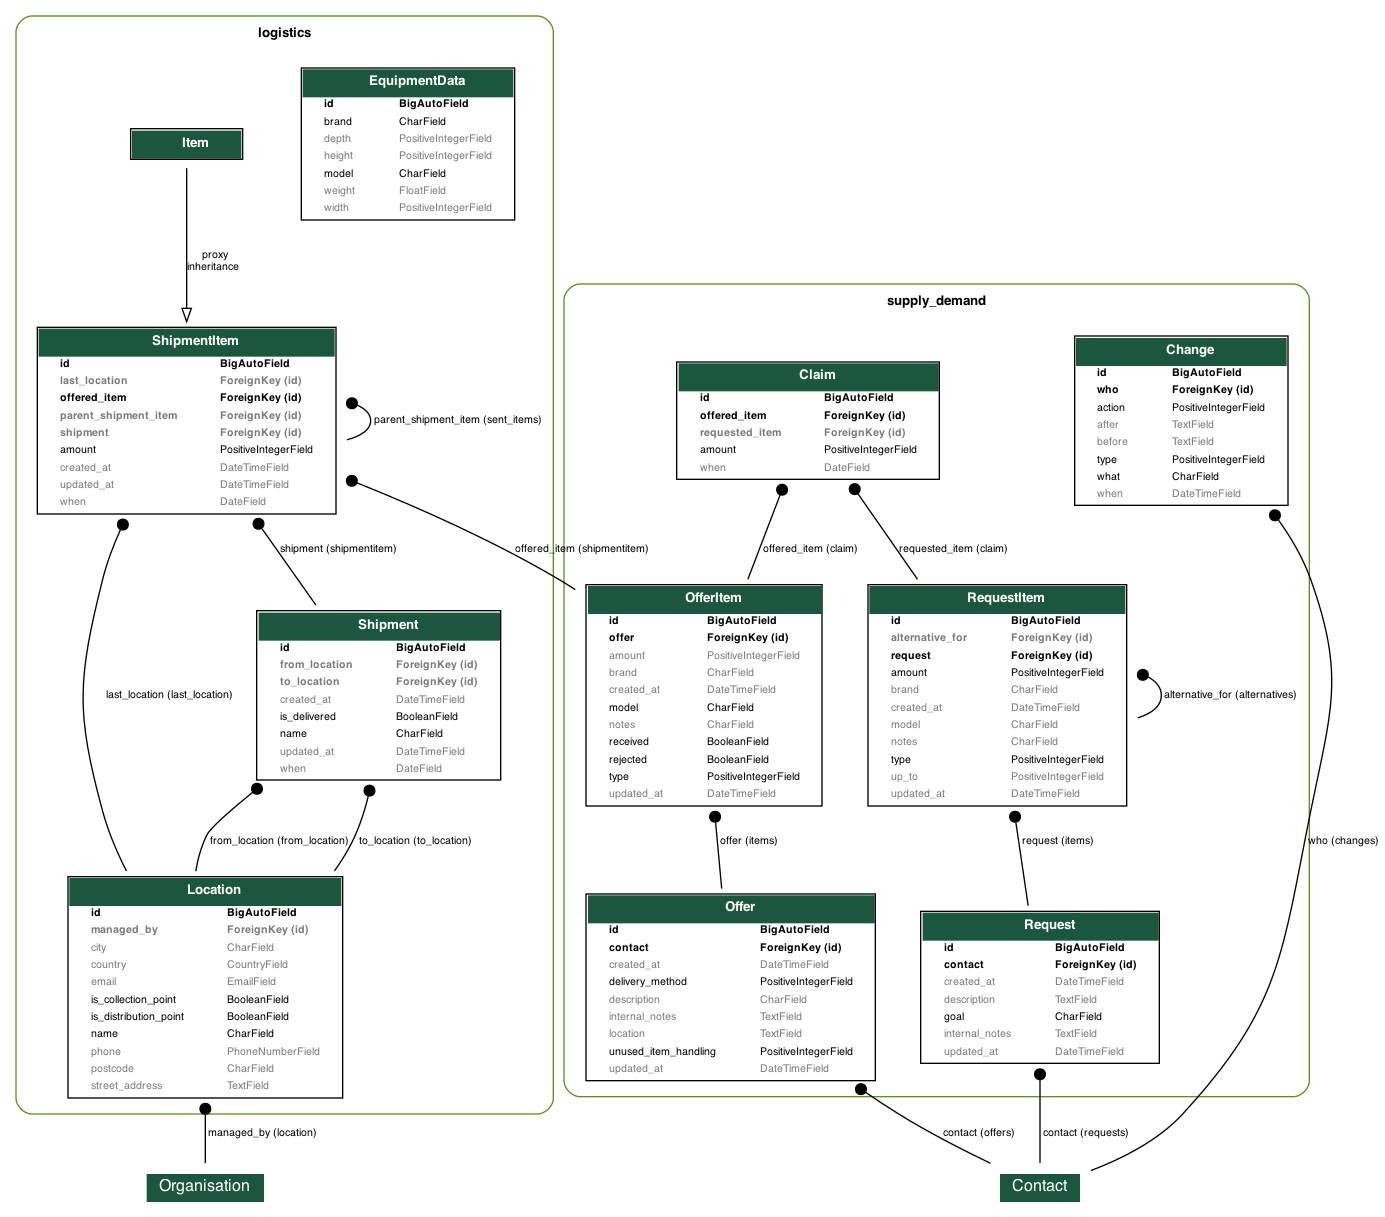
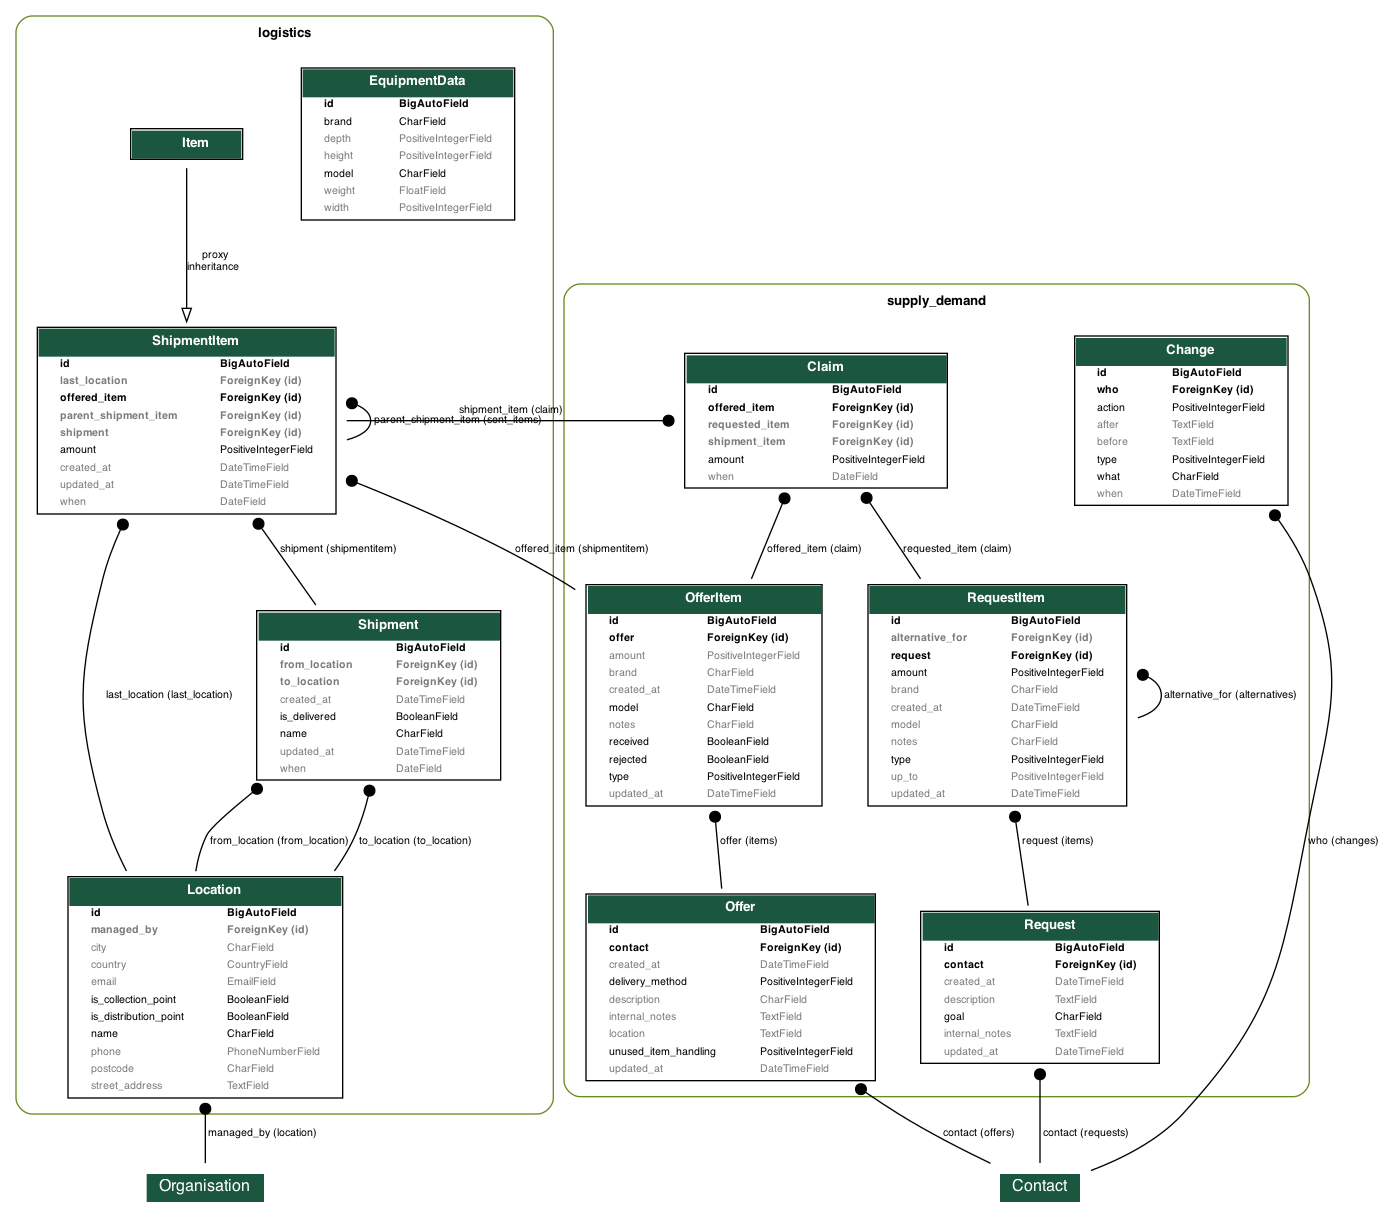
attach claim to shipment_item, improve ClaimAdmin

Changed region(s): [[0.4657, 0.281, 0.683, 0.4684], [0.652, 0.4371, 0.7141, 0.4684], [0.3415, 0.3122, 0.4036, 0.3435]]

diff --git a/templates/admin/assign_to_shipment.html b/templates/admin/assign_to_shipment.html
@@ -2,6 +2,13 @@
 {% load i18n %}
 
 {% block content %}
+  {% if not form.fields.shipment.choices %}
+    <p style="color: red;">{% translate "Create Shipment first" %}</p>
+  {% endif %}
+    <a class="" href="{% url 'admin:logistics_shipment_add' %}" target="_blank" title="{% translate "Add new Shipment" %}">
+      <img src="/static/admin/img/icon-addlink.svg" alt="Add"> {% translate "Create New Shipment" %}
+    </a>({% translate "refresh page after new shipment has been created" %})
+    <p></p>
   <form action="" method="post">
     {% csrf_token %}
     {{ form }}

diff --git a/supply_demand/admin/admin.py b/supply_demand/admin/admin.py
@@ -16,7 +16,7 @@ from import_export.admin import ExportActionModelAdmin, ImportExportActionModelA
 from logistics.forms import AssignToShipmentForm
 from logistics.models import ShipmentItem, Shipment
 from supply_demand.admin.base import CompactInline, ContactOnlyAdmin, ReadOnlyMixin
-from supply_demand.admin.filters import LocationFilter, OverclaimedListFilter
+from supply_demand.admin.filters import LocationFilter, OverclaimedListFilter, ProcessedClaimListFilter
 from supply_demand.admin.forms import MoveToOfferForm, MoveToRequestForm
 from supply_demand.admin.resources import (
     CustomConfirmImportForm,
@@ -199,6 +199,8 @@ class ClaimInlineAdmin(CompactInline):
         "offered_item",
         "amount",
         "location",
+        "requester",
+        "donor",
     )
 
     def get_queryset(self, request):
@@ -208,7 +210,40 @@ class ClaimInlineAdmin(CompactInline):
 
     @admin.display(description=_("current location"))
     def location(self, item: Claim):
-        return item.location
+        shipment_items = item.offered_item.shipmentitem_set.all()
+        if shipment_items:
+            return format_html_join(
+                mark_safe("<br>"), "{}x - {}", ((item.amount, item.last_location) for item in shipment_items)
+            )
+        return _("donor")
+
+    @admin.display(description=_("requester"))
+    def requester(self, item: Claim):
+        if item.requested_item.request.contact.organisation_id:
+            organisation = item.requested_item.request.contact.organisation
+        else:
+            organisation = _("no organisation")
+        requester = item.requested_item.request.contact
+        requester_name = requester.display_name()
+        return format_html(
+            '<a href="{url}">{requester}</a>',
+            url=reverse("admin:contacts_contact_change", args=(requester.id,)),
+            requester=f"{requester_name}({organisation})",
+        )
+
+    @admin.display(description=_("donor"))
+    def donor(self, item: Claim):
+        if item.offered_item.offer.contact.organisation_id:
+            organisation = item.offered_item.offer.contact.organisation
+        else:
+            organisation = _("no organisation")
+        donor = item.offered_item.offer.contact
+        donor_name = donor.display_name()
+        return format_html(
+            '<a href="{url}">{donor}</a>',
+            url=reverse("admin:contacts_contact_change", args=(donor.id,)),
+            donor=f"{donor_name}({organisation})",
+        )
 
 
 @admin.register(RequestItem)
@@ -220,7 +255,6 @@ class RequestItemAdmin(ExportActionModelAdmin):
         "amount",
         "up_to",
         "assigned",
-        "delivered",
         "created_at",
         "item_of",
     )
@@ -248,18 +282,6 @@ class RequestItemAdmin(ExportActionModelAdmin):
     def get_queryset(self, request):
         qs = super().get_queryset(request)
         qs = qs.annotate(assigned=Coalesce(Sum("claim__amount"), 0))
-        qs = qs.annotate(
-            delivered=Sum(
-                Case(
-                    When(
-                        offered_items__shipmentitem__shipment__is_delivered=True,
-                        then=F("offered_items__shipmentitem__amount"),
-                    ),
-                    default=0,
-                    output_field=IntegerField(),
-                ),
-            )
-        )
         return qs
 
     def get_resource_kwargs(self, request, *args, **kwargs):
@@ -276,16 +298,6 @@ class RequestItemAdmin(ExportActionModelAdmin):
             icon_url = static("admin/img/icon-no.svg")
             return format_html('<img src="{}" alt="False">', icon_url)
         return f"{item.assigned}/{item.amount}"
-
-    @admin.display(description=_("delivered"))
-    def delivered(self, item: RequestItem):
-        if item.delivered == item.amount:
-            icon_url = static("admin/img/icon-yes.svg")
-            return format_html('<img src="{}" alt="True">', icon_url)
-        elif item.delivered == 0:
-            icon_url = static("admin/img/icon-no.svg")
-            return format_html('<img src="{}" alt="False">', icon_url)
-        return f"{item.delivered}/{item.amount}"
 
     @admin.display(description=_("item of"))
     def item_of(self, item: RequestItem):
@@ -881,8 +893,12 @@ class ClaimAdmin(ExportActionModelAdmin):
         "amount",
         "admin_offered_item",
         "admin_requested_item",
+        "when",
+        "is_processed",
+        "shipment",
     )
     list_filter = (
+        ProcessedClaimListFilter,
         (
             "offered_item__offer__contact__organisation",
             admin.RelatedOnlyFieldListFilter,
@@ -900,7 +916,12 @@ class ClaimAdmin(ExportActionModelAdmin):
         "offered_item__offer__contact__organisation__name",
         "requested_item__request__contact__organisation__name",
     )
-    autocomplete_fields = ("offered_item", "requested_item",)
+    autocomplete_fields = (
+        "offered_item",
+        "requested_item",
+    )
+
+    ordering = ("-when",)
     actions = ["assign_to_shipment"]
     resource_class = ClaimExportResource
 
@@ -918,12 +939,14 @@ class ClaimAdmin(ExportActionModelAdmin):
         if "apply" in request.POST:
             shipment = Shipment.objects.get(id=request.POST["shipment"])
             for item in queryset:
-                ShipmentItem.objects.create(
+                shipment_item = ShipmentItem.objects.create(
                     shipment=shipment,
                     offered_item=item.offered_item,
                     amount=item.amount,
                     last_location=shipment.from_location,
                 )
+                item.shipment_item = shipment_item
+                item.save()
 
             return HttpResponseRedirect(request.get_full_path())
 
@@ -948,3 +971,23 @@ class ClaimAdmin(ExportActionModelAdmin):
             )
         else:
             return mark_safe("<b>Preemptive shipment</b><br>" "Just ship it to a distribution point")
+
+    @admin.display(description=_("processed?"))
+    def is_processed(self, claim: Claim):
+        if claim.shipment_item:
+            icon_url = static("admin/img/icon-yes.svg")
+            return format_html('<img src="{}" alt="True">', icon_url)
+        else:
+            icon_url = static("admin/img/icon-no.svg")
+            return format_html('<img src="{}" alt="False">', icon_url)
+
+    @admin.display(description=_("shipment_item"))
+    def shipment(self, item: Claim):
+        shipment_item = item.shipment_item
+        if not shipment_item:
+            return
+        return format_html(
+            '<a href="{url}">{shipment}</a>',
+            url=reverse("admin:logistics_item_change", args=(shipment_item.id,)),
+            shipment=shipment_item.shipment.name,
+        )

diff --git a/supply_demand/models.py b/supply_demand/models.py
@@ -406,7 +406,11 @@ class Change(models.Model):
 
 
 class Claim(models.Model):
-    offered_item = models.ForeignKey(verbose_name=_("offered item"), to=OfferItem, on_delete=models.RESTRICT)
+    offered_item = models.ForeignKey(
+        verbose_name=_("offered item"),
+        to=OfferItem,
+        on_delete=models.RESTRICT,
+    )
     requested_item = models.ForeignKey(
         verbose_name=_("requested item"),
         to=RequestItem,
@@ -415,7 +419,16 @@ class Claim(models.Model):
         null=True,
     )
     amount = models.PositiveIntegerField(
-        verbose_name=_("amount"), default=1, help_text=_("The amount of items claimed")
+        verbose_name=_("amount"),
+        default=1,
+        help_text=_("The amount of items claimed"),
+    )
+    shipment_item = models.ForeignKey(
+        "logistics.ShipmentItem",
+        verbose_name=_("shipment item"),
+        on_delete=models.SET_NULL,
+        blank=True,
+        null=True,
     )
     when = models.DateField(verbose_name=_("when"), auto_now_add=True)
 
@@ -428,6 +441,12 @@ class Claim(models.Model):
         if self.requested_item:
             return f"{self.amount} x {self.offered_item} for request {self.requested_item}"
         return f"{self.amount} x {self.offered_item} not requested"
+
+    @property
+    def is_processed(self):
+        if self.shipment_item:
+            return True
+        return False
 
     @property
     def location(self):

diff --git a/logistics/admin.py b/logistics/admin.py
@@ -190,7 +190,7 @@ class ShipmentItemAdmin(ExportActionModelAdmin):
         return item.shipment and item.shipment.is_delivered
 
 
-class ChildInlineFormSet(BaseInlineFormSet):
+class ShipmentItemHistoryFormSet(BaseInlineFormSet):
 
     ordering = ("when",)
 
@@ -205,7 +205,7 @@ class ShipmentItemHistoryInlineAdmin(admin.TabularInline):
     verbose_name_plural = _("Shipment History of Items")
     extra = 0
     max_num = 0
-    formset = ChildInlineFormSet
+    formset = ShipmentItemHistoryFormSet
     can_delete = False
     readonly_fields = (
         "offered_item",
@@ -222,6 +222,7 @@ class ItemAdmin(ShipmentItemAdmin):
     list_display = (
         "offered_item",
         "available",
+        "amount",
         "last_location",
         "shipment",
         "is_delivered",
@@ -246,6 +247,15 @@ class ItemAdmin(ShipmentItemAdmin):
     actions = ("assign_to_shipment",)
 
     inlines = (ShipmentItemHistoryInlineAdmin,)
+
+    def has_add_permission(self, request):
+        return False
+
+    def has_change_permission(self, request, obj=None):
+        return False
+
+    def has_delete_permission(self, request, obj=None):
+        return False
 
     def get_queryset(self, request):
         qs = super().get_queryset(request)

diff --git a/logistics/migrations/0029_item_alter_shipmentitem_parent_shipment_item.py b/logistics/migrations/0029_item_alter_shipmentitem_parent_shipment_item.py
@@ -1,0 +1,32 @@
+# Generated by Django 4.0.7 on 2022-10-09 19:26
+
+from django.db import migrations, models
+import django.db.models.deletion
+
+
+class Migration(migrations.Migration):
+
+    dependencies = [
+        ('logistics', '0028_shipmentitem_parent_shipment_item'),
+    ]
+
+    operations = [
+        migrations.CreateModel(
+            name='Item',
+            fields=[
+            ],
+            options={
+                'verbose_name': 'available item',
+                'verbose_name_plural': 'available items',
+                'proxy': True,
+                'indexes': [],
+                'constraints': [],
+            },
+            bases=('logistics.shipmentitem',),
+        ),
+        migrations.AlterField(
+            model_name='shipmentitem',
+            name='parent_shipment_item',
+            field=models.ForeignKey(blank=True, null=True, on_delete=django.db.models.deletion.SET_NULL, related_name='sent_items', to='logistics.shipmentitem', verbose_name='parent shipment item'),
+        ),
+    ]

diff --git a/supply_demand/admin/filters.py b/supply_demand/admin/filters.py
@@ -26,6 +26,25 @@ class OverclaimedListFilter(admin.SimpleListFilter):
             return queryset
 
 
+class ProcessedClaimListFilter(admin.SimpleListFilter):
+    title = _("processed")
+    parameter_name = "processed"
+
+    def lookups(self, request: HttpRequest, model_admin: ModelAdmin):
+        return (
+            ("yes", _("Yes")),
+            ("no", _("No")),
+        )
+
+    def queryset(self, request: HttpRequest, queryset: QuerySet):
+        if self.value() == "yes":
+            return queryset.filter(shipment_item_id__isnull=False)
+        if self.value() == "yes":
+            return queryset.filter(shipment_item_id__isnull=True)
+        else:
+            return queryset
+
+
 class LocationFilter(InputFilter):
     parameter_name = "location"
     title = _("location")

diff --git a/supply_demand/migrations/0033_claim_shipment_item.py b/supply_demand/migrations/0033_claim_shipment_item.py
@@ -1,0 +1,20 @@
+# Generated by Django 4.0.7 on 2022-10-09 19:26
+
+from django.db import migrations, models
+import django.db.models.deletion
+
+
+class Migration(migrations.Migration):
+
+    dependencies = [
+        ('logistics', '0029_item_alter_shipmentitem_parent_shipment_item'),
+        ('supply_demand', '0032_remove_claim_current_location_remove_claim_shipment'),
+    ]
+
+    operations = [
+        migrations.AddField(
+            model_name='claim',
+            name='shipment_item',
+            field=models.ForeignKey(blank=True, null=True, on_delete=django.db.models.deletion.SET_NULL, to='logistics.shipmentitem', verbose_name='shipment item'),
+        ),
+    ]
